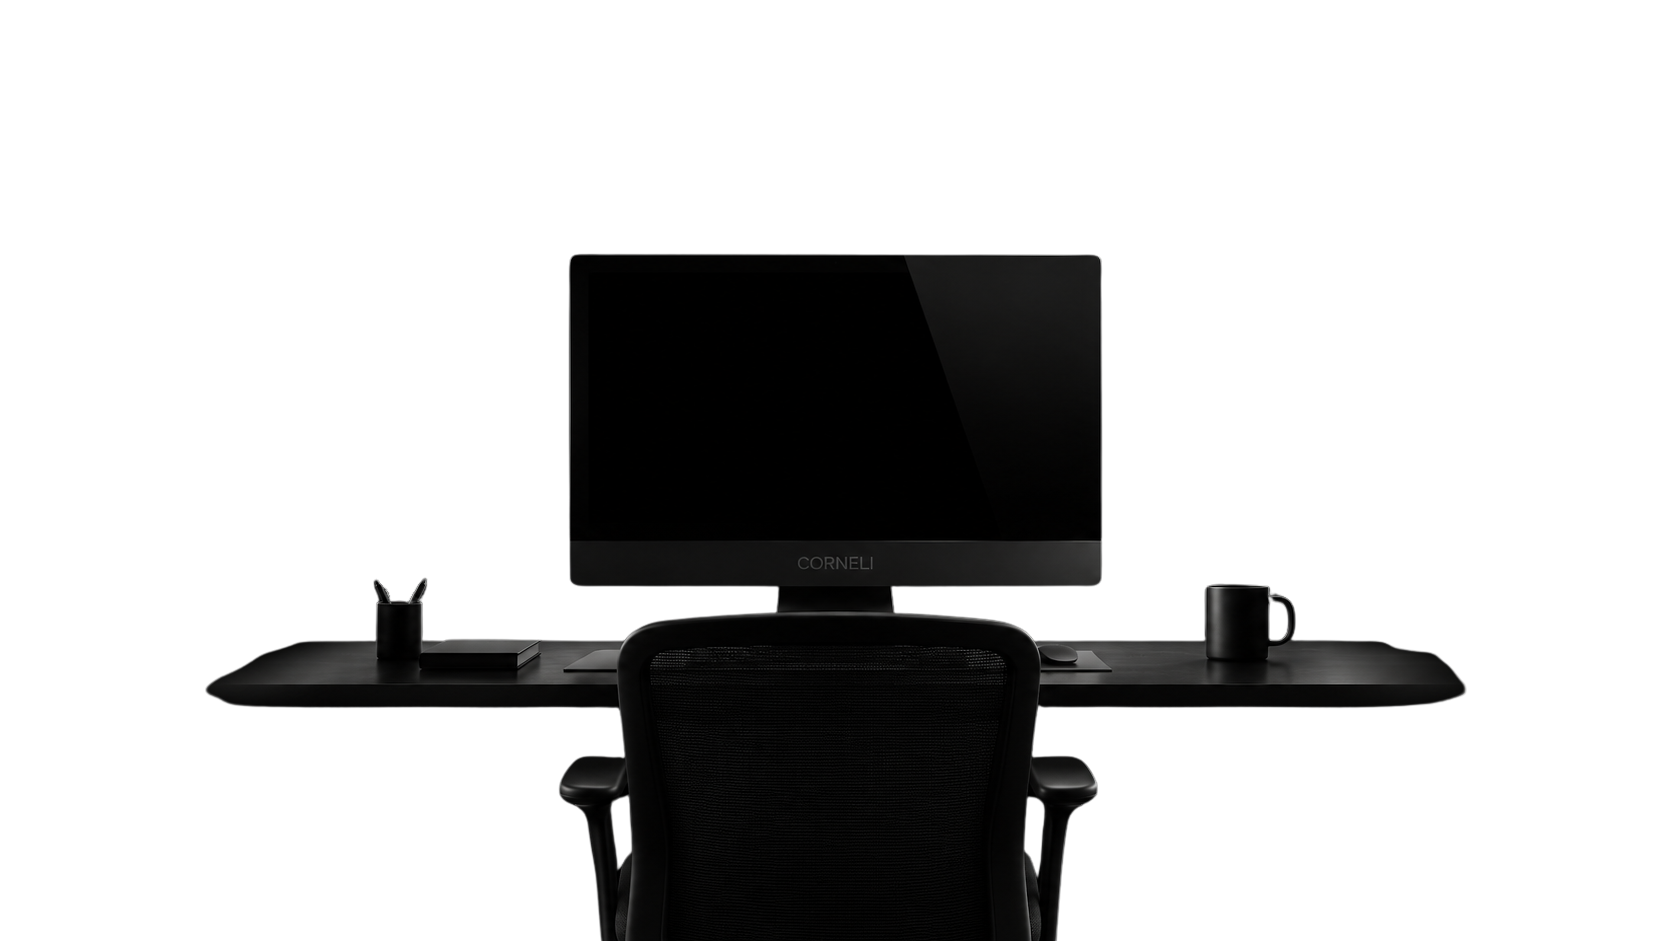
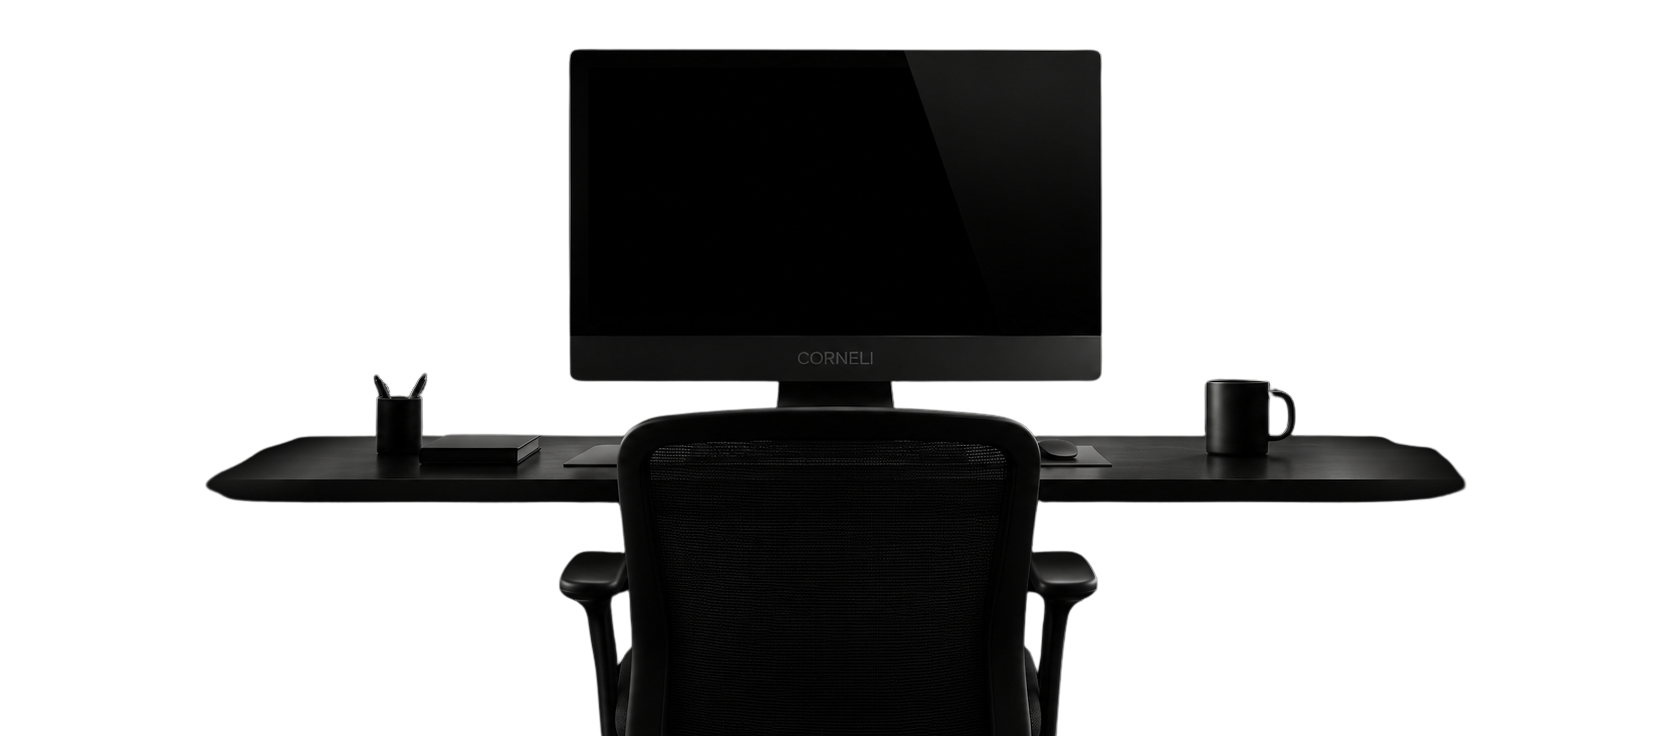
first version of a product-intro page is ready!

Changed region(s): [[0.1244, 0.4375, 0.9019, 0.9375], [0.3421, 0.0625, 0.6842, 0.3125]]

diff --git a/corneli-app/index.html b/corneli-app/index.html
@@ -61,13 +61,13 @@
                         impossible to ignore.
                     </span>
                 </h1>
-                <p class="hero-section__subtitle">
+                <p class="hero-section__subtitle section--subtitle">
                     Lorem ipsum dolor sit amet consectetur adipisicing elit. Doloremque vitae sed commodi magnam quam
                     quisquam, illo harum libero ut quia.
                 </p>
                 <div class="hero-section__cta-container">
-                    <button class="hero-section__cta-button btn-accent">Buy Now</button>
-                    <button class="hero-section__cta-button">Learn more</button>
+                    <button class="hero-section__cta-button cta-button btn--accent">Buy Now</button>
+                    <button class="hero-section__cta-button cta-button">Learn more</button>
                 </div>
             </div>
 
@@ -75,6 +75,34 @@
                 <img 
                 src="public/images/hero.png" 
                 alt="Corneli monoblock on the table">
+            </div>
+        </section>
+
+        <section class="product-intro">
+            <div class="product-intro__image-container">
+                <img src="public/images/product-intro-img.png" alt="Image of the desktop on the table">
+            </div>
+
+            <div class="product-intro__content">
+                <h1 class="product-intro__title section--title">
+                    Built for people <br>
+                    who build <br>
+                    <span class="title-accent">what's next.</span>
+                </h1>
+                <p class="product-intro__subtitle section--subtitle">
+                    Corneli desktops combine refined design,
+                    exceptional performance and complete flexibility
+                    for modern teams and creators.
+                </p>
+
+                <div class="product-intro__cta-container">
+                    <button class="product-intro__cta-button cta-button btn--accent">
+                        Buy Now
+                    </button>
+                    <button class="product-intro__cta-button cta-button">
+                        Explore Features
+                    </button>
+                </div>
             </div>
         </section>
     </main>

diff --git a/corneli-app/assets/style/hero.css b/corneli-app/assets/style/hero.css
@@ -1,4 +1,8 @@
 .hero-section__content {
+    max-width: var(--continer-max);
+    margin-inline: auto;
+    padding-inline: var(--continer-pad);
+
     display: flex;
     flex-direction: column;
     gap: 10px;
@@ -12,14 +16,15 @@
     font-weight: var(--text-weight-md);
 }
 
-.hero-section__title .title-accent {
+.title-accent {
     color: var(--color-accent);
     font-weight: var(--text-weight);
 }
 
-.hero-section__subtitle {
+.section--subtitle {
     max-width: 700px;
     margin-inline: auto;
+    font-family: var(--ff-secondary);
 }
 
 .hero-section__cta-container {
@@ -27,32 +32,6 @@
     justify-content: center;
     gap: 20px;
     margin-top: 20px;
-}
-
-.hero-section__cta-button {
-    padding: 10px 30px;
-    background: #EAEFEF;
-    color: var(--color-text);
-    outline: none;
-    border: 1px solid rgba(255, 255, 255, 0.4);
-    text-shadow: 0 2px 4px rgba(0, 0, 0, 0.3);
-    box-shadow: 
-    0 10px 25px rgba(0, 0, 0, 0.1),
-    inset 0 8px 12px rgba(255, 255, 255, 0.7),
-    inset 0 0 5px rgba(117, 117, 117, 0.3),
-    inset 0 0 8px rgba(255, 255, 255, 0.5);
-}
-
-.btn-accent {
-    background: radial-gradient(circle at bottom,
-            #F69D39 10%, #EF6905 60%
-        );
-    color: var(--color-light);
-    box-shadow: 
-    0 10px 25px rgba(0, 0, 0, 0.1),
-    inset 0 8px 12px rgba(255, 255, 255, 0.7),
-    inset 0 0 5px rgba(117, 117, 117, 0.3),
-    inset 0 0 8px rgba(255, 255, 255, 0.5);
 }
 
 .hero-section__image-container {
@@ -63,16 +42,15 @@
 }
 
 .hero-section__image-container img {
-    display: block;
     width: 100%;
-    max-width: 1000px;
+    max-width: 1200px;
     height: auto;
 }
 
 .hero-section__image-container::before {
     content: 'CORNELI';
     position: absolute;
-    top: -20%;
+    top: -35%;
     color: var(--color-background-dark);
     font-size: calc(var(--space-20) * 6);
     font-family: system-ui, -apple-system, BlinkMacSystemFont, 'Segoe UI', Roboto, Oxygen, Ubuntu, Cantarell, 'Open Sans', 'Helvetica Neue', sans-serif;

diff --git a/corneli-app/assets/style/components/button.css b/corneli-app/assets/style/components/button.css
@@ -1,0 +1,29 @@
+button {
+  border-radius: var(--space-8);
+}
+
+.cta-button {
+    padding: 10px 30px;
+    background: #EAEFEF;
+    color: var(--color-text);
+    outline: none;
+    border: 1px solid rgba(255, 255, 255, 0.4);
+    text-shadow: 0 2px 4px rgba(0, 0, 0, 0.3);
+    box-shadow: 
+    0 10px 25px rgba(0, 0, 0, 0.1),
+    inset 0 8px 12px rgba(255, 255, 255, 0.7),
+    inset 0 0 5px rgba(117, 117, 117, 0.3),
+    inset 0 0 8px rgba(255, 255, 255, 0.5);
+}
+
+.btn--accent {
+    background: radial-gradient(circle at bottom,
+            #F69D39 10%, #EF6905 60%
+        );
+    color: var(--color-light);
+    box-shadow: 
+    0 10px 25px rgba(0, 0, 0, 0.1),
+    inset 0 8px 12px rgba(255, 255, 255, 0.7),
+    inset 0 0 5px rgba(117, 117, 117, 0.3),
+    inset 0 0 8px rgba(255, 255, 255, 0.5);
+}

diff --git a/corneli-app/assets/style/product-intro.css b/corneli-app/assets/style/product-intro.css
@@ -1,0 +1,26 @@
+.product-intro {
+    display: grid;
+    grid-template-columns: 1fr 1fr;
+}
+
+.product-intro__content {
+    display: flex;
+    flex-direction: column;
+    justify-content: center;
+    gap: 10px;
+    padding: 50px;
+}
+
+.section--title {
+    font-size: calc(var(--text-size-lg) * 1.5);
+}
+
+.product-intro__content {
+    justify-self: flex-start;
+}
+
+.product-intro__cta-container {
+    display: flex;
+    gap: 20px;
+    margin-top: 20px;
+}

diff --git a/corneli-app/assets/style/main.css b/corneli-app/assets/style/main.css
@@ -4,3 +4,6 @@
 @import 'header.css';
 @import 'hero.css';
 @import 'section.css';
+@import 'product-intro.css';
+
+@import 'components/button.css';

diff --git a/corneli-app/assets/style/header.css b/corneli-app/assets/style/header.css
@@ -8,6 +8,7 @@
     display: flex;
     justify-content: space-between;
     align-items: center;
+    padding-block: 20px;
 }
 
 .header__logo {

diff --git a/corneli-app/assets/style/variables.css b/corneli-app/assets/style/variables.css
@@ -75,7 +75,3 @@ a {
   color: var(--color-text);
   text-decoration: none;
 }
-
-button {
-  border-radius: var(--space-8);
-}
